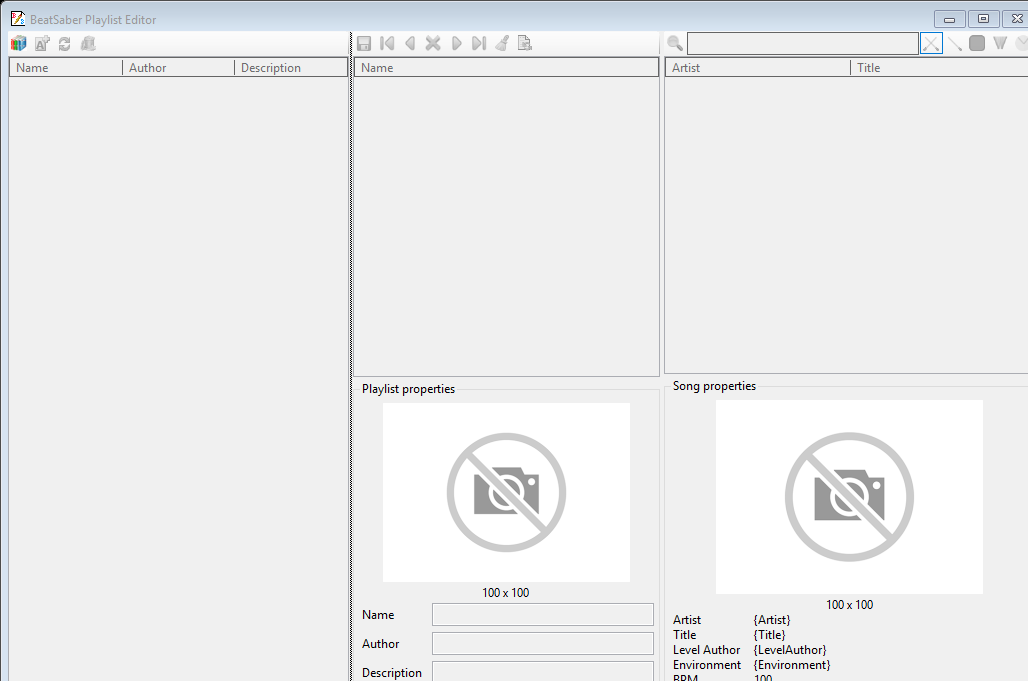
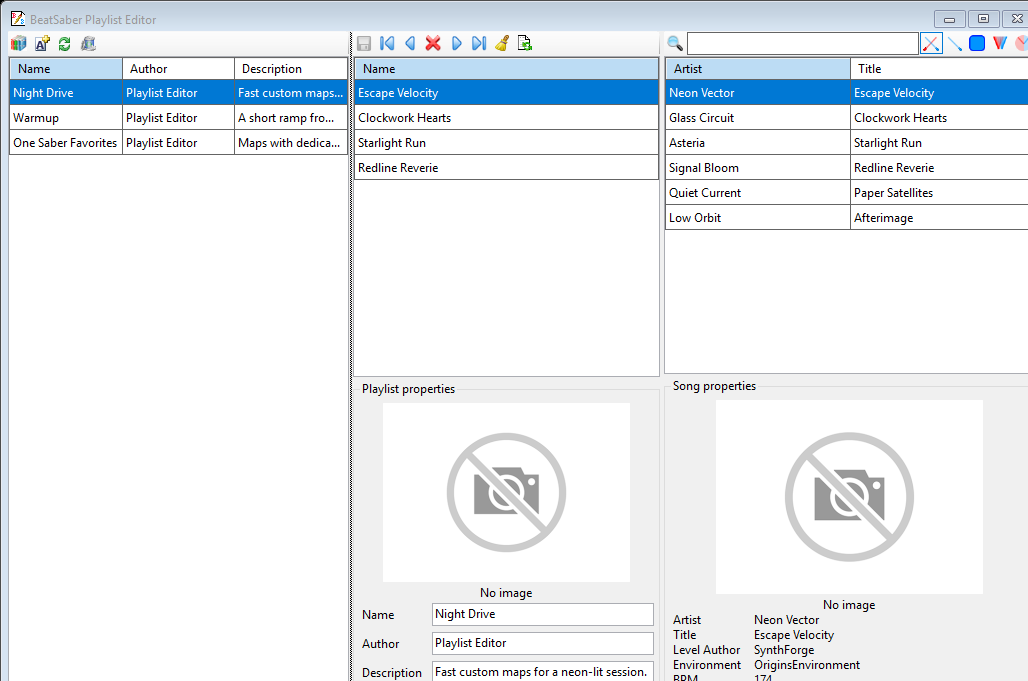
+ populate generated screenshot with representative sample data (#17)
Screenshot mode now starts from the normal empty editor, then injects a deterministic in-memory Beat Saber installation after the form is visible. The generated README image therefore shows playlists, playlist entries, song metadata and the available-song library without depending on a local game installation.

Normal startup is unchanged, the sample model never writes to disk, and a view-model test guards that the screenshot data populates every visible data area.

diff --git a/src/BeatSaber Playlist Editor/ScreenshotSampleData.cs b/src/BeatSaber Playlist Editor/ScreenshotSampleData.cs
@@ -1,0 +1,219 @@
+using System;
+using System.Collections;
+using System.Collections.Generic;
+using System.Drawing;
+using BeatSaberAPI;
+
+namespace BeatSaber_Playlist_Editor;
+
+internal static class ScreenshotSampleData {
+
+  public static IBeatSaberInstallation CreateInstallation() {
+    SampleSong[] songs = [
+      new(
+        "Escape Velocity",
+        "Neon Vector",
+        "SynthForge",
+        174,
+        "OriginsEnvironment",
+        GameMode.Normal | GameMode.OneSaber,
+        _CreateDifficulties(
+          (GameMode.Normal, DifficultyMode.Hard | DifficultyMode.Expert | DifficultyMode.ExpertPlus),
+          (GameMode.OneSaber, DifficultyMode.Hard | DifficultyMode.Expert)
+        ),
+        "0123456789ABCDEF0123456789ABCDEF01234567"
+      ),
+      new(
+        "Clockwork Hearts",
+        "Glass Circuit",
+        "Mira",
+        128,
+        "BigMirrorEnvironment",
+        GameMode.Normal | GameMode.NoArrows,
+        _CreateDifficulties(
+          (GameMode.Normal, DifficultyMode.Normal | DifficultyMode.Hard | DifficultyMode.Expert),
+          (GameMode.NoArrows, DifficultyMode.Hard)
+        ),
+        "123456789ABCDEF0123456789ABCDEF012345678"
+      ),
+      new(
+        "Starlight Run",
+        "Asteria",
+        "Kite",
+        150,
+        "KaleidoscopeEnvironment",
+        GameMode.Normal | GameMode.NinetyDegrees,
+        _CreateDifficulties(
+          (GameMode.Normal, DifficultyMode.Hard | DifficultyMode.Expert),
+          (GameMode.NinetyDegrees, DifficultyMode.Expert)
+        ),
+        "23456789ABCDEF0123456789ABCDEF0123456789"
+      ),
+      new(
+        "Redline Reverie",
+        "Signal Bloom",
+        "MapSmith",
+        196,
+        "DragonsEnvironment",
+        GameMode.Normal | GameMode.ThreeSixtyDegrees,
+        _CreateDifficulties(
+          (GameMode.Normal, DifficultyMode.Expert | DifficultyMode.ExpertPlus),
+          (GameMode.ThreeSixtyDegrees, DifficultyMode.Expert)
+        ),
+        "3456789ABCDEF0123456789ABCDEF0123456789A"
+      ),
+      new(
+        "Paper Satellites",
+        "Quiet Current",
+        "Nova",
+        112,
+        "LatticeEnvironment",
+        GameMode.Normal,
+        _CreateDifficulties((GameMode.Normal, DifficultyMode.Easy | DifficultyMode.Normal | DifficultyMode.Hard)),
+        "456789ABCDEF0123456789ABCDEF0123456789AB"
+      ),
+      new(
+        "Afterimage",
+        "Low Orbit",
+        "Vex",
+        160,
+        "PyroEnvironment",
+        GameMode.Normal | GameMode.OneSaber | GameMode.NoArrows,
+        _CreateDifficulties(
+          (GameMode.Normal, DifficultyMode.Hard | DifficultyMode.Expert | DifficultyMode.ExpertPlus),
+          (GameMode.OneSaber, DifficultyMode.Expert),
+          (GameMode.NoArrows, DifficultyMode.Hard | DifficultyMode.Expert)
+        ),
+        "56789ABCDEF0123456789ABCDEF0123456789ABC"
+      )
+    ];
+
+    SamplePlaylist[] playlists = [
+      new(
+        "Night Drive",
+        "Playlist Editor",
+        "Fast custom maps for a neon-lit session.",
+        [songs[0], songs[1], songs[2], songs[3]]
+      ),
+      new(
+        "Warmup",
+        "Playlist Editor",
+        "A short ramp from comfortable patterns into harder maps.",
+        [songs[4], songs[1], songs[2]]
+      ),
+      new(
+        "One Saber Favorites",
+        "Playlist Editor",
+        "Maps with dedicated One Saber difficulties.",
+        [songs[0], songs[5]]
+      )
+    ];
+
+    return new SampleInstallation(new SamplePlaylistCollection(playlists), new SampleSongCollection(songs));
+  }
+
+  private static IReadOnlyDictionary<GameMode, DifficultyMode> _CreateDifficulties(params (GameMode Mode, DifficultyMode Difficulties)[] entries) {
+    Dictionary<GameMode, DifficultyMode> result = [];
+    foreach (var entry in entries)
+      result.Add(entry.Mode, entry.Difficulties);
+
+    return result;
+  }
+
+  private sealed class SampleInstallation(IPlaylistCollection playlists, ISongCollection songs) : IBeatSaberInstallation {
+    public IPlaylistCollection Playlists { get; } = playlists;
+    public ISongCollection Songs { get; } = songs;
+  }
+
+  private sealed class SampleSong(
+    string title,
+    string? artist,
+    string? levelAuthor,
+    double beatsPerMinute,
+    string? environment,
+    GameMode supportedGameModes,
+    IReadOnlyDictionary<GameMode, DifficultyMode> difficulties,
+    string checksum
+  ) : ISong {
+    public string Title { get; } = title;
+    public string? Artist { get; } = artist;
+    public string? LevelAuthor { get; } = levelAuthor;
+    public double BeatsPerMinute { get; } = beatsPerMinute;
+    public string? Environment { get; } = environment;
+    public GameMode SupportedGameModes { get; } = supportedGameModes;
+    public IReadOnlyDictionary<GameMode, DifficultyMode> Difficulties { get; } = difficulties;
+    public Image? Image => null;
+    public string CalculateChecksum() => checksum;
+  }
+
+  private sealed class SampleSongCollection(IEnumerable<ISong> songs) : ISongCollection {
+    private readonly List<ISong> _songs = new(songs);
+
+    public IEnumerator<ISong> GetEnumerator() => this._songs.GetEnumerator();
+    IEnumerator IEnumerable.GetEnumerator() => this.GetEnumerator();
+  }
+
+  private sealed class SamplePlaylistCollection(IEnumerable<IPlaylist> playlists) : IPlaylistCollection {
+    private readonly List<IPlaylist> _playlists = new(playlists);
+
+    public IPlaylist Create(string name) {
+      SamplePlaylist playlist = new(name, null, null, Array.Empty<ISong>());
+      this._playlists.Add(playlist);
+      return playlist;
+    }
+
+    public void Delete(string name) {
+      for (var i = this._playlists.Count - 1; i >= 0; --i)
+        if (string.Equals(this._playlists[i].Name, name, StringComparison.OrdinalIgnoreCase))
+          this._playlists.RemoveAt(i);
+    }
+
+    public IEnumerator<IPlaylist> GetEnumerator() => this._playlists.GetEnumerator();
+    IEnumerator IEnumerable.GetEnumerator() => this.GetEnumerator();
+  }
+
+  private sealed class SamplePlaylist : IPlaylist {
+    public string Name { get; set; }
+    public string? Author { get; set; }
+    public string? Description { get; set; }
+    public Image? Image { get; private set; }
+    public IPlaylistEntryCollection Songs { get; }
+
+    public SamplePlaylist(string name, string? author, string? description, IEnumerable<ISong> songs) {
+      this.Name = name;
+      this.Author = author;
+      this.Description = description;
+
+      SamplePlaylistEntryCollection entries = new();
+      foreach (var song in songs)
+        entries.Add(this.CreateEntry(song));
+
+      this.Songs = entries;
+    }
+
+    public IPlaylistEntry CreateEntry(ISong song, string? displayName = null)
+      => new SamplePlaylistEntry(displayName ?? song.Title, song.CalculateChecksum());
+
+    public void WriteToDisk() { }
+    public void SetImage(Image? image) => this.Image = image;
+  }
+
+  private sealed class SamplePlaylistEntry(string name, string sha1Hash) : IPlaylistEntry {
+    public string Name { get; } = name;
+    public string Sha1Hash { get; } = sha1Hash;
+  }
+
+  private sealed class SamplePlaylistEntryCollection : IPlaylistEntryCollection {
+    private readonly List<IPlaylistEntry> _entries = [];
+
+    public void Add(IPlaylistEntry entry) => this._entries.Add(entry);
+    public void Clear() => this._entries.Clear();
+    public bool ContainsByHash(string hash) => this._entries.Exists(entry => string.Equals(entry.Sha1Hash, hash, StringComparison.OrdinalIgnoreCase));
+    public bool ContainsByName(string name) => this._entries.Exists(entry => string.Equals(entry.Name, name, StringComparison.OrdinalIgnoreCase));
+    public void InsertAt(int index, IPlaylistEntry entry) => this._entries.Insert(index, entry);
+    public void RemoveAt(int index) => this._entries.RemoveAt(index);
+    public IEnumerator<IPlaylistEntry> GetEnumerator() => this._entries.GetEnumerator();
+    IEnumerator IEnumerable.GetEnumerator() => this.GetEnumerator();
+  }
+
+}

diff --git a/src/BeatSaber Playlist Editor/Program.cs b/src/BeatSaber Playlist Editor/Program.cs
@@ -15,27 +15,34 @@ internal static class Program {
   public static void Main(string[] args) {
     ApplicationConfiguration.Initialize();
 
-    using MainForm view = new();
-    view.Bind(new UIMain { IsStandardGameModeVisible = true });
-
     var screenshotIndex = Array.IndexOf(args, SCREENSHOT_ARGUMENT);
+    UIMain viewModel = new() { IsStandardGameModeVisible = true };
+
+    using MainForm view = new();
+    view.Bind(viewModel);
+
     if (screenshotIndex >= 0) {
       var outputPath = screenshotIndex + 1 < args.Length ? args[screenshotIndex + 1] : "screenshot.png";
-      _CaptureScreenshot(view, outputPath);
+      _CaptureScreenshot(view, viewModel, outputPath);
+      Environment.Exit(0);
       return;
     }
 
     Application.Run(view);
   }
 
-  private static void _CaptureScreenshot(MainForm view, string outputPath) {
+  private static void _CaptureScreenshot(MainForm view, UIMain viewModel, string outputPath) {
     view.StartPosition = FormStartPosition.Manual;
     view.Location = Point.Empty;
     view.Size = new Size(1280, 720);
     view.Show();
-    Application.DoEvents();
+
+    viewModel.SetInstallation(ScreenshotSampleData.CreateInstallation());
+    viewModel.SetCurrentPlaylist(viewModel.Playlists[0]);
+    viewModel.CurrentSong = viewModel.Songs[0];
+
+    view.PerformLayout();
     view.Refresh();
-    Application.DoEvents();
 
     using Bitmap screenshot = new(view.ClientSize.Width, view.ClientSize.Height);
     view.DrawToBitmap(screenshot, new Rectangle(Point.Empty, view.ClientSize));
@@ -43,7 +50,6 @@ internal static class Program {
     var fullPath = Path.GetFullPath(outputPath);
     Directory.CreateDirectory(Path.GetDirectoryName(fullPath)!);
     screenshot.Save(fullPath, ImageFormat.Png);
-    view.Close();
   }
 
 }

diff --git a/Tests/EditorTests/ScreenshotSampleDataTests.cs b/Tests/EditorTests/ScreenshotSampleDataTests.cs
@@ -1,0 +1,26 @@
+using BeatSaber_Playlist_Editor;
+using BeatSaber_Playlist_Editor.ViewModel;
+using NUnit.Framework;
+
+namespace EditorTests;
+
+public partial class Tests {
+
+  [Test]
+  public void ScreenshotSampleDataPopulatesAllVisibleAreas() {
+    UIMain vm = new() { IsStandardGameModeVisible = true };
+    vm.SetInstallation(ScreenshotSampleData.CreateInstallation());
+    vm.SetCurrentPlaylist(vm.Playlists[0]);
+    vm.CurrentSong = vm.Songs[0];
+
+    Assert.That(vm.Playlists, Has.Count.GreaterThanOrEqualTo(3));
+    Assert.That(vm.Songs, Has.Count.GreaterThanOrEqualTo(5));
+    Assert.That(vm.CurrentPlaylistEntries, Has.Count.GreaterThanOrEqualTo(3));
+    Assert.That(vm.CurrentPlaylistName, Is.Not.Empty);
+    Assert.That(vm.CurrentPlaylistAuthor, Is.Not.Empty);
+    Assert.That(vm.CurrentPlaylistDescription, Is.Not.Empty);
+    Assert.That(vm.CurrentSong?.Title, Is.Not.Empty);
+    Assert.That(vm.CurrentSong?.Artist, Is.Not.Empty);
+  }
+
+}

diff --git a/README.md b/README.md
@@ -21,7 +21,7 @@
 
 ![BeatSaber Playlist Editor](docs/screenshots/main.png)
 
-_The screenshot is generated from the current application build by GitHub Actions after changes land on `main`, so the README follows the actual UI instead of an aging hand-made capture._
+_The screenshot is generated from the current application build by GitHub Actions with deterministic sample playlists and songs, so the README shows the real UI populated with representative data instead of an aging hand-made capture._
 
 ## ✨ Features
 
